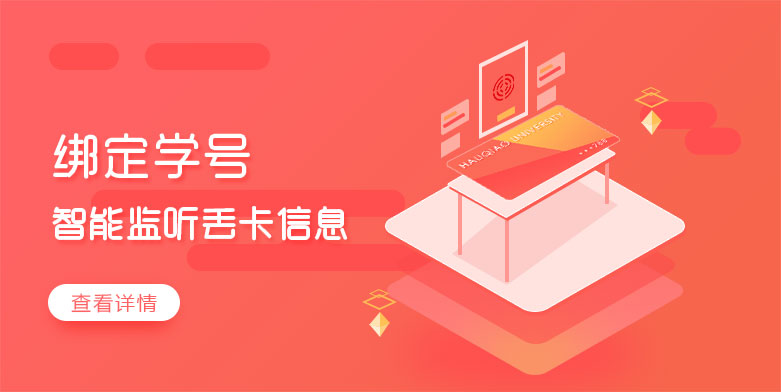
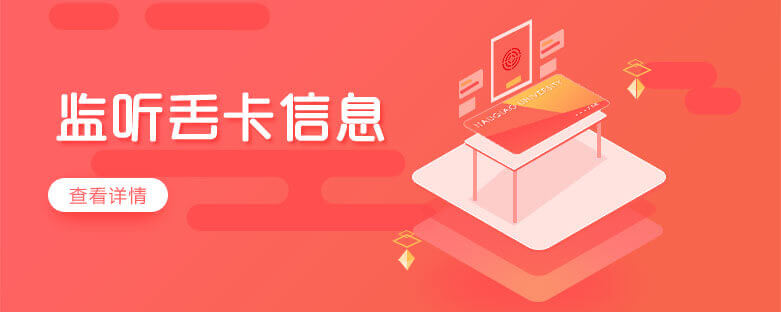
v0.3.0
V 0.3.0
1.U:更改组件
2.U:再次优化展示组件
3.U:更改banner和搜索框样式
4.F:修复信息过多，canvas高度不够问题，只绘制标题

diff --git a/pages/preview/preview.js b/pages/preview/preview.js
@@ -41,7 +41,7 @@ Page({
       })
       this._setCanvasWidth(() => {
         this._drawBackGround();
-        this._drawDate();
+        // this._drawDate();
         this._drawData();
         this._drawLine();
         this._drawCode(() => {
@@ -86,18 +86,42 @@ Page({
       height: height
     })
   },
+  /**drewType */
+  _drawTypeStr: function (str) {
+    let height = this.data.height + 40;
+    let canvasWidth = this.data.canvasWidth;
+    let fontSize = 24;
+    myCanvas.setFontSize(fontSize);
+    myCanvas.setFillStyle('#ff6263');
+    let str1=this.data.time+str+":";
+    myCanvas.fillText(str1, 20, height);
+    myCanvas.draw(true);
+    this.setData({
+      height: height
+    })
+  },
+
   /**
    * 绘制整个数据
    */
   _drawData: function() {
     let list = this.data.list;
+    let str_lost = '';
+    let str_found = '';
     for (let i = 0; i < list.length; i++) {
-      let typeStr = list[i].is_found == 1 ? "失物招领：" : "寻物启事：";
-      let str = typeStr + list[i].title;
-      this._drawStr(str);
-      this._drawDetail(list[i].description);
-      this._drawContact(list[i])
+      if (list[i].is_found == 1) {
+        str_found += list[i].title+"；";
+      } else {
+        str_lost += list[i].title+"；";
+      }
+      // this._drawDetail(list[i].description);
+      // this._drawContact(list[i])
     }
+    this._drawTypeStr("失物招领");
+    this._drawStr(str_found);
+    this._drawTypeStr("寻物启事");
+    this._drawStr(str_lost);
+
   },
   /**
    * 绘制单条数据
@@ -107,14 +131,14 @@ Page({
     myCanvas.setFillStyle('#3a3a3a');
     myCanvas.setFontSize(fontSize);
     let canvasWidth = this.data.canvasWidth;
-    let height = this.data.height + 40;
+    let height = this.data.height + 30;
     var lineWidth = 0;
     var lastSubStrIndex = 0; //每次开始截取的字符串的索引
     for (let i = 0; i < str.length; i++) {
       lineWidth += myCanvas.measureText(str[i]).width;
       if (lineWidth > canvasWidth - fontSize * 2) { //
         myCanvas.fillText(str.substring(lastSubStrIndex, i), 20, height); //绘制截取部分
-        height += fontSize; //
+        height += fontSize+2; //
         lineWidth = 0;
         lastSubStrIndex = i;
       }

diff --git a/README.md b/README.md
@@ -20,3 +20,9 @@ V 0.2.3
 5.U:智能识别学生卡后的标题附带上学院信息
 6.F:修复普通发布之后标题没有初始化为空
 7.F:修复登陆提示时间过短问题
+
+V 0.3.0
+1.U:更改组件
+2.U:再次优化展示组件
+3.U:更改banner和搜索框样式
+4.F:修复信息过多，canvas高度不够问题，只绘制标题
